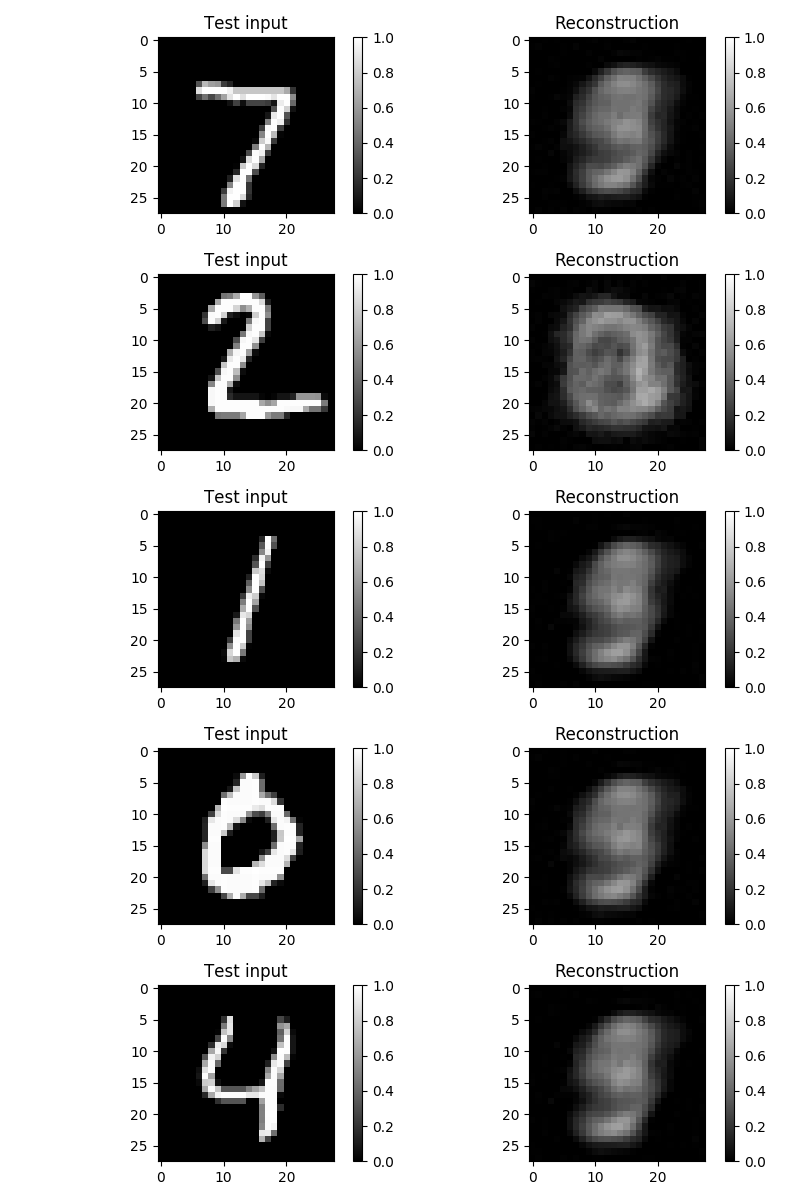
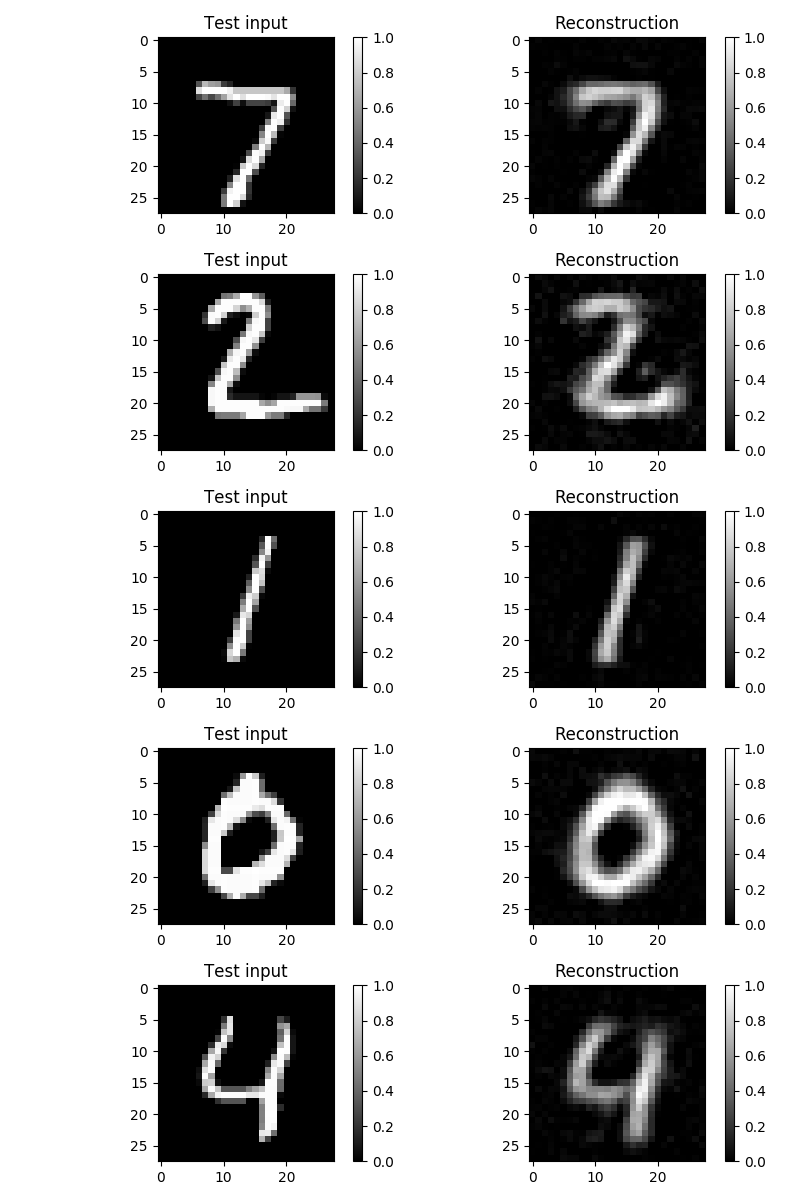
ignore variance in reconstruction loss-reconstructed digits

diff --git a/train_semi_supervised.py b/train_semi_supervised.py
@@ -165,7 +165,7 @@ if __name__ == '__main__':
         'encoder_h_dim': 500,
         'decoder_h_dim': 500,
         'latent_dim': 50,
-        'require_improvement': 1500,
+        'require_improvement': 2000,
         'n_train': 50000,
         'learning_rate': 3e-4,
         'beta1': 0.9,
